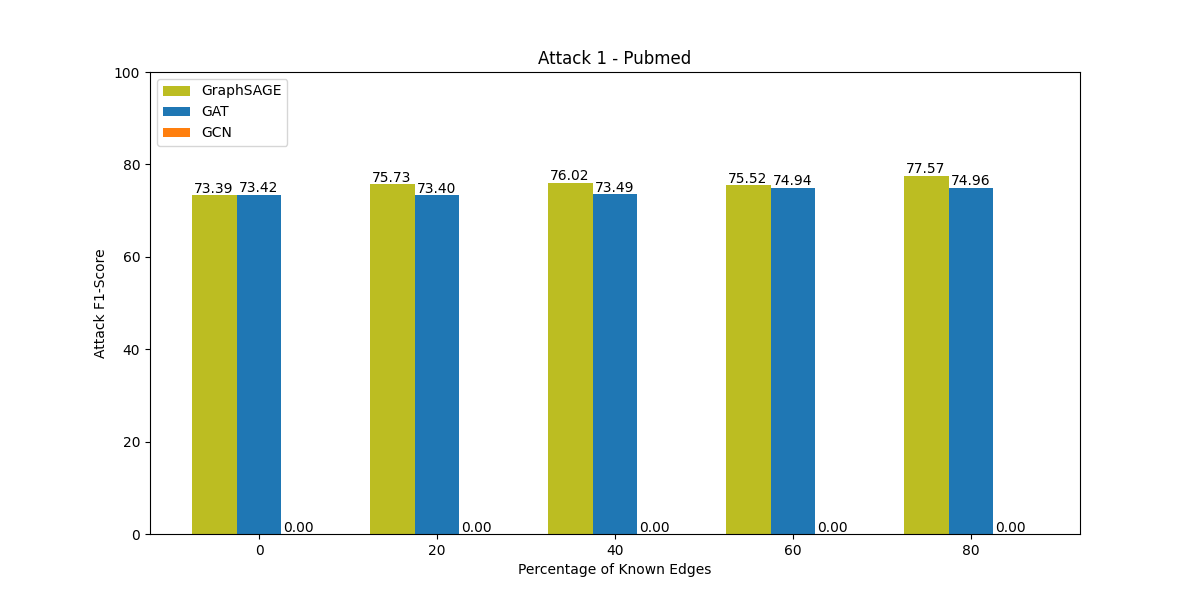
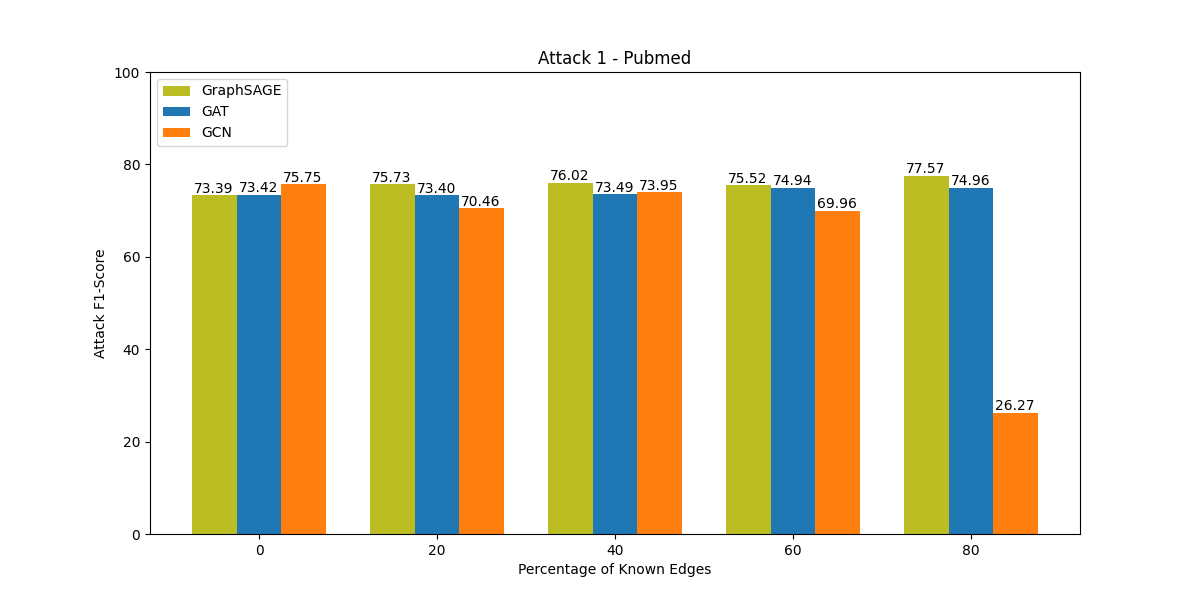
gcn-pubmed

diff --git a/Experiment/results/plot.py b/Experiment/results/plot.py
@@ -80,7 +80,7 @@ def a1_pubmed():
 
     graphsage = [73.39, 75.73, 76.02, 75.52, 77.57]
     gat = [73.42, 73.40, 73.49, 74.94, 74.96]
-    gcn = [0, 0, 0, 0, 0]
+    gcn = [75.75, 70.46, 73.95, 69.96, 26.27]
 
     X_axis = np.arange(len(bartypes))
 
@@ -192,7 +192,7 @@ def a2_pubmed():
 
     graphsage = [75.47, 79.37, 80.98, 81.72, 83.21]
     gat = [77.30, 79.63, 80.35, 82.73, 82.37]
-    gcn = [0, 0, 0, 0, 0]
+    gcn = [75.49, 77.10, 78.93, 79.62, 81.74]
 
     X_axis = np.arange(len(bartypes))
 
